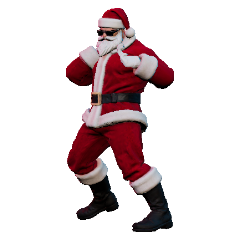
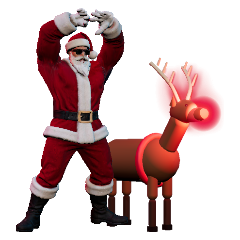
LINEスタンプにクリスマス編8個を追加して24個セットに
- 撮影モードにプレゼント・ツリー・サンタ帽・鈴の小道具を追加
- ホーホーホー／プレゼントだよ／いい子にしてた？／メリークリスマス／クリぼっち／くれてやる／配達中／ジングルベル
- 雪の結晶・キラキラ・音符の飾りを、キャラに重ならない位置に入れる
- メイン画像をサンタとトナカイの2ショットに

Claude-Session: https://claude.ai/code/session_01Rz95MgR8PKHdCNNdX1RG3z

diff --git a/santa-secret-society/fight3d.html b/santa-secret-society/fight3d.html
@@ -931,6 +931,40 @@ if (STUDIO) window.__studio = (() => {
   renderer.setPixelRatio(1);
   const c2 = document.createElement('canvas'), g2 = c2.getContext('2d', { willReadFrequently: true });
   const grab = () => { g2.clearRect(0, 0, c2.width, c2.height); g2.drawImage(renderer.domElement, 0, 0); return g2.getImageData(0, 0, c2.width, c2.height); };
+  // クリスマスの小道具（プレゼント・ツリー・サンタ帽・鈴）
+  const propG = new THREE.Group(); scene.add(propG);
+  const PM = (c, o = {}) => new THREE.MeshStandardMaterial({ color: c, roughness: .75, ...o });
+  const MK = {
+    gift(o) { const g = new THREE.Group(), z = o.size || .4, ribM = PM(o.rib || 0xe0b030, { metalness: .5, roughness: .5 });
+      g.add(new THREE.Mesh(new THREE.BoxGeometry(z, z * .85, z), PM(o.color || 0xc8102e))); g.add(new THREE.Mesh(new THREE.BoxGeometry(z * 1.03, z * .87, z * .2), ribM)); g.add(new THREE.Mesh(new THREE.BoxGeometry(z * .2, z * .87, z * 1.03), ribM));
+      for (const sx of [-1, 1]) { const b = new THREE.Mesh(new THREE.TorusGeometry(z * .16, z * .05, 8, 16), ribM); b.position.set(sx * z * .13, z * .5, 0); b.rotation.set(0, Math.PI / 2, sx * .6); g.add(b); } return g; },
+    tree(o) { const g = new THREE.Group(), gm = PM(0x1f6a3a, { roughness: .8 });
+      [[.62, .7, .55], [.5, .6, 1.0], [.36, .5, 1.4]].forEach(([r, h, y]) => { const c = new THREE.Mesh(new THREE.ConeGeometry(r, h, 18), gm); c.position.y = y; g.add(c); });
+      const tr = new THREE.Mesh(new THREE.CylinderGeometry(.09, .11, .3, 10), PM(0x5a3418)); tr.position.y = .15; g.add(tr);
+      const star = new THREE.Mesh(new THREE.OctahedronGeometry(.13), new THREE.MeshStandardMaterial({ color: 0xffd860, emissive: 0xffb020, emissiveIntensity: 1.5, metalness: .6 })); star.position.y = 1.72; g.add(star);
+      const cols = [0xff2a3a, 0xffd860, 0x4a8aff, 0xff7ad0, 0xffffff];
+      for (let i = 0; i < 18; i++) { const y = .45 + (i / 18) * 1.1, r = .6 * (1 - (y - .3) / 1.5) + .02, a = i * 2.4; const b = new THREE.Mesh(new THREE.SphereGeometry(.045, 10, 8), new THREE.MeshStandardMaterial({ color: cols[i % 5], emissive: cols[i % 5], emissiveIntensity: .5, metalness: .4, roughness: .3 })); b.position.set(Math.cos(a) * r, y, Math.sin(a) * r); g.add(b); }
+      return g; },
+    hat(o) { const g = new THREE.Group(), z = o.size || .3; const c = new THREE.Mesh(new THREE.ConeGeometry(z * .55, z * 1.3, 20), PM(0xc8102e)); c.position.y = z * .6; c.rotation.z = -.35; c.position.x = z * .18; g.add(c);
+      const br = new THREE.Mesh(new THREE.TorusGeometry(z * .55, z * .14, 10, 24), PM(0xf6f2ea, { roughness: 1 })); br.rotation.x = Math.PI / 2; g.add(br);
+      const ball = new THREE.Mesh(new THREE.SphereGeometry(z * .16, 12, 10), PM(0xf6f2ea, { roughness: 1 })); ball.position.set(z * .45, z * 1.15, 0); g.add(ball); return g; },
+    bell(o) { const g = new THREE.Group(), z = o.size || .12, m = PM(0xf0c040, { metalness: .7, roughness: .3, emissive: 0x402800 });
+      const pts = []; for (let i = 0; i <= 12; i++) { const t = i / 12; pts.push(new THREE.Vector2(z * (.25 + .75 * Math.pow(t, 1.8)) * (t > .92 ? 1.08 : 1), z * (1 - t) * 1.3)); }
+      g.add(new THREE.Mesh(new THREE.LatheGeometry(pts, 20), m)); const cl = new THREE.Mesh(new THREE.SphereGeometry(z * .2), m); cl.position.y = -z * .05; g.add(cl); return g; },
+  };
+  function anchor(f, a) {
+    const v = new THREE.Vector3();
+    if (a === 'hands') { const l = handPos(f), r = new THREE.Vector3(); (f.real ? f.rig.B.RightHand : f.J.hdR).getWorldPosition(r); return l.add(r).multiplyScalar(.5); }
+    if (a === 'head') { (f.real ? f.rig.B.Head : f.J.head).getWorldPosition(v); return v; }
+    return v;
+  }
+  function props(sp, f) {
+    while (propG.children.length) propG.remove(propG.children[0]);
+    for (const o of sp.props || []) { const m = MK[o.type](o); m.traverse(q => { if (q.isMesh) q.castShadow = true; });
+      if (o.at === 'deer') { DEER.g.updateMatrixWorld(true); m.position.copy(DEER.g.localToWorld(new THREE.Vector3(...(o.p || [0, 0, 0])))); m.rotation.y = DEER.g.rotation.y; }
+      else { const base = f && o.at ? anchor(f, o.at) : new THREE.Vector3(); m.position.copy(base).add(new THREE.Vector3(...(o.p || [0, 0, 0]))); }
+      if (o.r) m.rotation.set(o.r[0], o.r[1] + (o.at === 'deer' ? DEER.g.rotation.y : 0), o.r[2]); if (o.s) m.scale.setScalar(o.s); propG.add(m); }
+  }
   // 黒背景と灰色背景で2回描き、その差から透明度を求める（ブルームの光はにじみとして残す）
   function snap(sp) {
     const [w, h] = sp.size || [900, 900]; renderer.setSize(w, h, false); composer.setSize(w, h); c2.width = w; c2.height = h;
@@ -955,6 +989,7 @@ if (STUDIO) window.__studio = (() => {
       DEER.head.rotation.z = d.head || 0;
       for (const c of DEER.nose.children) if (c.isSprite) c.scale.setScalar(d.glow ?? .45);
     }
+    props(sp, sp.who === 'P' ? P : sp.who === 'E' ? E : null);
     for (const b of sp.bursts || []) burst(new THREE.Vector3(...b.p), b.c, b.n || 30, b.sp || 2, b.life || 1, b.g ?? 0);
     if (sp.bursts) for (let i = 0; i < 6; i++) updParts(.04);
     camera.position.set(...(sp.cam || [0, 1.1, 7])); camera.lookAt(...(sp.look || [0, 1, 0]));

diff --git a/santa-secret-society/line-stamps/tools/compose.js b/santa-secret-society/line-stamps/tools/compose.js
@@ -5,6 +5,7 @@ const FONT = B + 'fonts/node_modules/@fontsource/dela-gothic-one/files/dela-goth
 const SANTA = { fill: '#e8102e', fill2: '#ff5a5a', in: '#fff', out: '#4a0010' };
 const KUROU = { fill: '#7b2cff', fill2: '#c070ff', in: '#fff', out: '#16062c' };
 const DEER = { fill: '#9a4e1c', fill2: '#e0802a', in: '#fff', out: '#2a1204' };
+const XMAS = { fill: '#178a3a', fill2: '#5ad86a', in: '#fff', out: '#063014' };
 const GOLD = { fill: '#e8a800', fill2: '#ffe066', in: '#fff', out: '#4a2a00' };
 const L = [
   ['01_ok', 'OK！', GOLD, { pos: 'top', rot: -6 }],
@@ -23,6 +24,14 @@ const L = [
   ['14_sugu', 'すぐ行く！', DEER, { pos: 'top', rot: -6 }],
   ['15_hirameita', 'ひらめいた！', DEER, { pos: 'top', size: 50, rot: -4 }],
   ['16_oyasumi', 'おやすみ〜', DEER, { pos: 'top', rot: 0, zzz: true }],
+  ['17_hohoho', 'ホーホーホー！', SANTA, { rot: -5, snow: true }],
+  ['18_present', 'プレゼントだよ！', SANTA, { rot: -4, size: 46, star: true }],
+  ['19_iiko', 'いい子にしてた？', SANTA, { rot: -3, size: 46 }],
+  ['20_merry', 'メリークリスマス！', XMAS, { rot: -4, size: 42, snow: true, star: true }],
+  ['21_kuribocchi', 'クリぼっち…', KUROU, { rot: 3, snow: true }],
+  ['22_kureteyaru', 'くれてやる！', KUROU, { rot: -5 }],
+  ['23_haitatsu', '配達中！', DEER, { rot: -6, star: true }],
+  ['24_jingle', 'ジングルベル♪', DEER, { rot: -4, size: 50, notes: true }],
 ];
 (async () => {
   const b = await chromium.launch();
@@ -53,6 +62,13 @@ const L = [
       g.lineWidth = size * .26; g.strokeStyle = C.in; g.strokeText(text, 0, 0);
       const gr = g.createLinearGradient(0, -size / 2, 0, size / 2); gr.addColorStop(0, C.fill2); gr.addColorStop(.55, C.fill); gr.addColorStop(1, C.fill);
       g.fillStyle = gr; g.fillText(text, 0, 0); g.restore();
+      const occ = g.getImageData(0, 0, Wd, Ht).data, free = (x, y, r) => { for (const [dx, dy] of [[0, 0], [r, 0], [-r, 0], [0, r], [0, -r]]) { const X = Math.round(x + dx), Y = Math.round(y + dy); if (X < 0 || Y < 0 || X >= Wd || Y >= Ht || occ[(Y * Wd + X) * 4 + 3] > 10) return false; } return true; };
+      const deco = (n, fn) => { let sd = n * 7 + Wd + text.length * 13; const R = () => (sd = (sd * 9301 + 49297) % 233280) / 233280; let k = 0, tries = 0; while (k < n && tries++ < n * 20) { if (fn(R(), R(), R()) !== false) k++; } };
+      if (o.snow) deco(14, (a, b, c3) => { const x = M + a * (Wd - M * 2), y = Ht * .3 + b * (Ht * .65 - M), r = 3 + c3 * 5; if (!free(x, y, r + 6)) return false; g.save(); g.translate(x, y); g.strokeStyle = '#8ab8ff'; g.lineWidth = 5; g.lineCap = 'round';
+        for (let k = 0; k < 3; k++) { g.rotate(Math.PI / 3); g.beginPath(); g.moveTo(-r, 0); g.lineTo(r, 0); g.stroke(); } g.strokeStyle = '#fff'; g.lineWidth = 2.4; for (let k = 0; k < 3; k++) { g.rotate(Math.PI / 3); g.beginPath(); g.moveTo(-r, 0); g.lineTo(r, 0); g.stroke(); } g.restore(); });
+      if (o.star) deco(6, (a, b, c3) => { const x = M + 8 + a * (Wd - M * 2 - 16), y = Ht * .32 + b * Ht * .55, r = 7 + c3 * 8; if (!free(x, y, r + 4)) return false; g.save(); g.translate(x, y); g.beginPath(); for (let k = 0; k < 8; k++) { const rr = k % 2 ? r * .3 : r; g.lineTo(Math.cos(k * Math.PI / 4) * rr, Math.sin(k * Math.PI / 4) * rr); } g.closePath();
+        g.lineWidth = 4; g.strokeStyle = '#fff'; g.stroke(); g.fillStyle = '#ffc820'; g.fill(); g.restore(); });
+      if (o.notes) [['♪', 40, 150, 40], ['♫', 320, 170, 44], ['♪', 300, 250, 32]].forEach(([s, x, y, z]) => { g.font = `${z}px Dela`; g.textAlign = 'center'; g.lineJoin = 'round'; g.lineWidth = z * .3; g.strokeStyle = '#fff'; g.strokeText(s, x, y); g.fillStyle = '#e8a800'; g.fillText(s, x, y); });
       if (o.zzz) { g.save(); g.font = '34px Dela'; g.textAlign = 'center'; g.lineJoin = 'round'; [['Z', 70, 150, 34], ['z', 40, 185, 26], ['z', 18, 212, 20]].forEach(([s, x, y, z]) => { g.font = `${z}px Dela`; g.lineWidth = z * .35; g.strokeStyle = '#fff'; g.strokeText(s, x, y); g.fillStyle = '#4a6aff'; g.fillText(s, x, y); }); g.restore(); }
     }
     return c.toDataURL('image/png');
@@ -60,7 +76,7 @@ const L = [
   const save = (name, url) => fs.writeFileSync(B + 'out/' + name, Buffer.from(url.split(',')[1], 'base64'));
   let n = 1;
   for (const [id, text, C, o] of L) save(String(n++).padStart(2, '0') + '.png', await draw(id, text, C, o, 370, 320));
-  save('main.png', await draw('03_kakatte', '', SANTA, {}, 240, 240, 'main'));
+  save('main.png', await draw('20_merry', '', SANTA, {}, 240, 240, 'main'));
   save('tab.png', await draw('06_merikuri', '', SANTA, {}, 96, 74, 'tab'));
   await b.close(); console.log('ok');
 })();

diff --git a/santa-secret-society/line-stamps/README.md b/santa-secret-society/line-stamps/README.md
@@ -1,11 +1,11 @@
 # LINEスタンプ「秘密結社 S.A.N.T.A.」
 
-バトルに出てくるサンタ（人形・リアル）、ブラックルフ（人形・リアル）、トナカイの16個セット。
+バトルに出てくるサンタ（人形・リアル）、ブラックルフ（人形・リアル）、トナカイの24個セット（17〜24はクリスマス編）。
 
 | ファイル | 内容 | サイズ |
 |---|---|---|
-| 01.png〜16.png | スタンプ画像 | 370×320 透過PNG |
-| main.png | メイン画像 | 240×240 |
+| 01.png〜24.png | スタンプ画像 | 370×320 透過PNG |
+| main.png | メイン画像（サンタ＋トナカイ） | 240×240 |
 | tab.png | トークルームタブ画像 | 96×74 |
 | preview.png | 一覧（確認用。申請には使わない） | |
 
@@ -27,8 +27,17 @@
 | 14 | すぐ行く！ | トナカイ |
 | 15 | ひらめいた！ | トナカイ |
 | 16 | おやすみ〜 | トナカイ |
+| 17 | ホーホーホー！ | サンタ（リアル）＋ツリー |
+| 18 | プレゼントだよ！ | サンタ（人形）＋プレゼント |
+| 19 | いい子にしてた？ | サンタ（リアル） |
+| 20 | メリークリスマス！ | サンタ（リアル）＋トナカイ |
+| 21 | クリぼっち… | ブラックルフ（リアル）＋サンタ帽 |
+| 22 | くれてやる！ | ブラックルフ（人形）＋プレゼント |
+| 23 | 配達中！ | トナカイ＋プレゼント |
+| 24 | ジングルベル♪ | トナカイ＋鈴 |
 
 ## 作り方
 - `fight3d.html?studio` を開くと、1体ずつ背景なしでポーズを撮れる撮影モードになる（`window.__studio.snap(設定)`）。
-- `tools/st.js` が `tools/s3.json` のポーズ設定で撮影し、`tools/compose.js` がセリフを入れてLINEの規格に合わせる（Playwright で実行。パスは作成環境のもの）。
+- 撮影の設定に `props` を書くと、プレゼント・ツリー・サンタ帽・鈴を置ける（手・頭・トナカイの背中に付けられる）。
+- `tools/st.js` が `tools/s3.json`（01〜16）と `tools/s5.json`（17〜24）のポーズ設定で撮影し（20 はサンタとトナカイの2枚を重ねて1枚にする）、`tools/compose.js` がセリフを入れてLINEの規格に合わせる（Playwright で実行。パスは作成環境のもの）。
 - 文字のフォントは Dela Gothic One（SIL Open Font License。商用・スタンプ利用可）。
